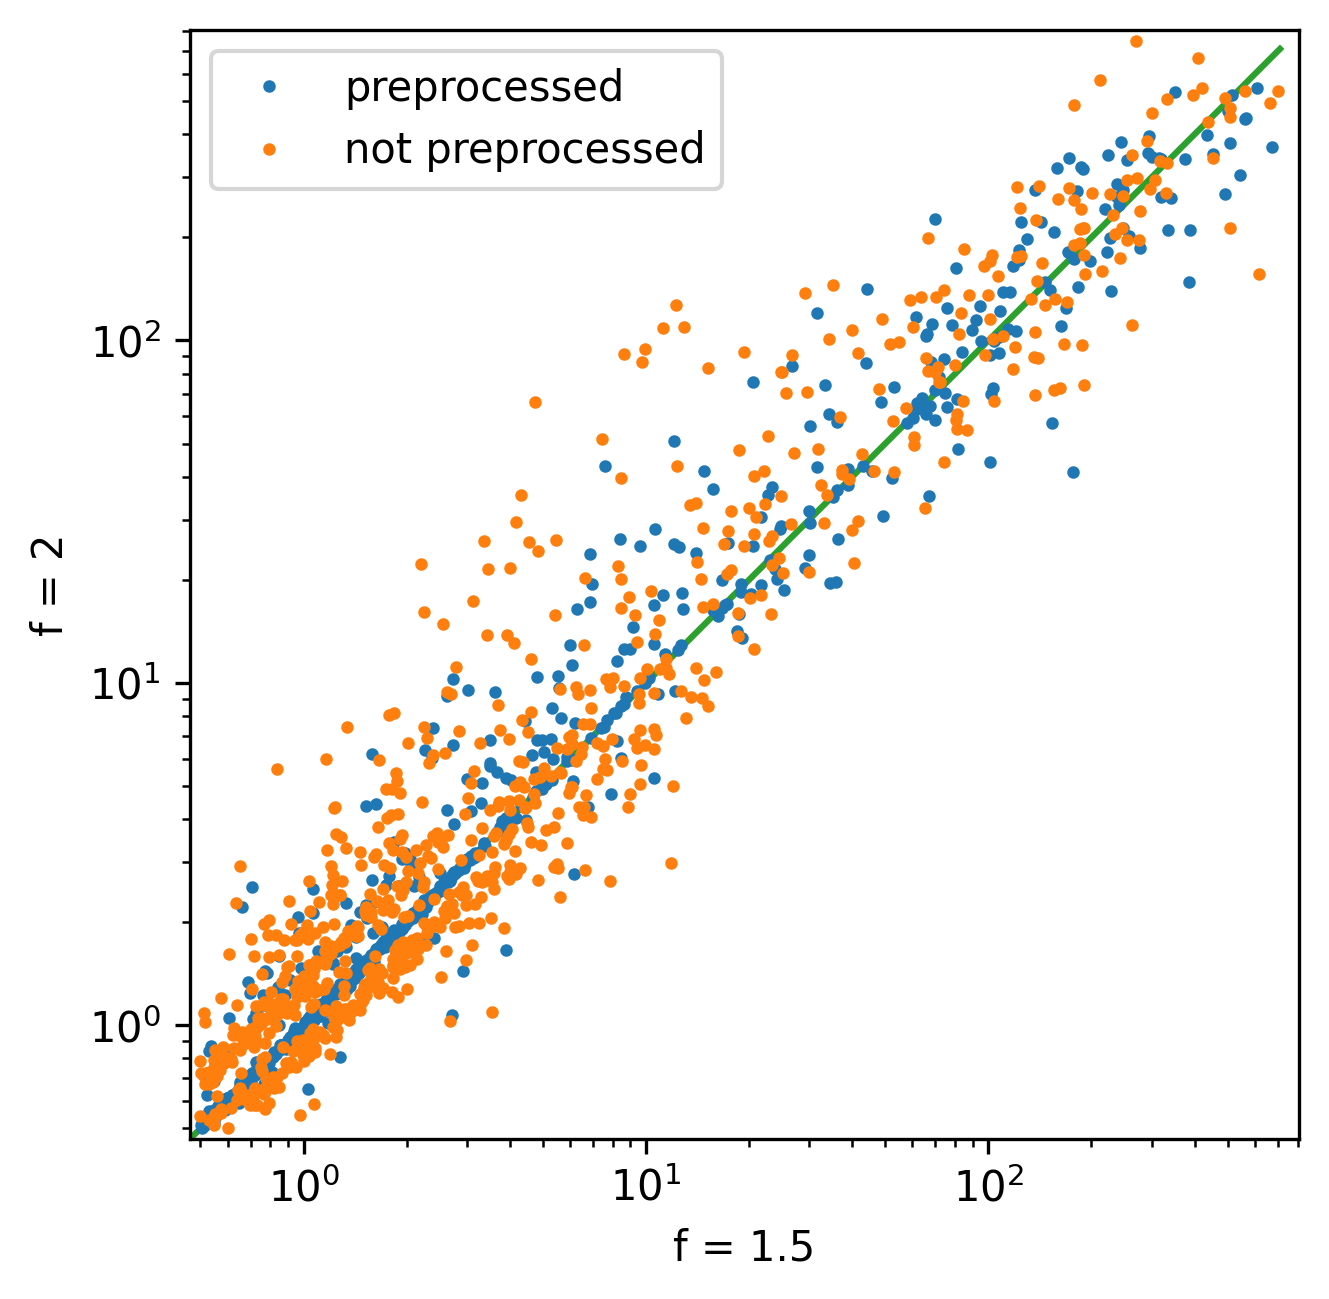
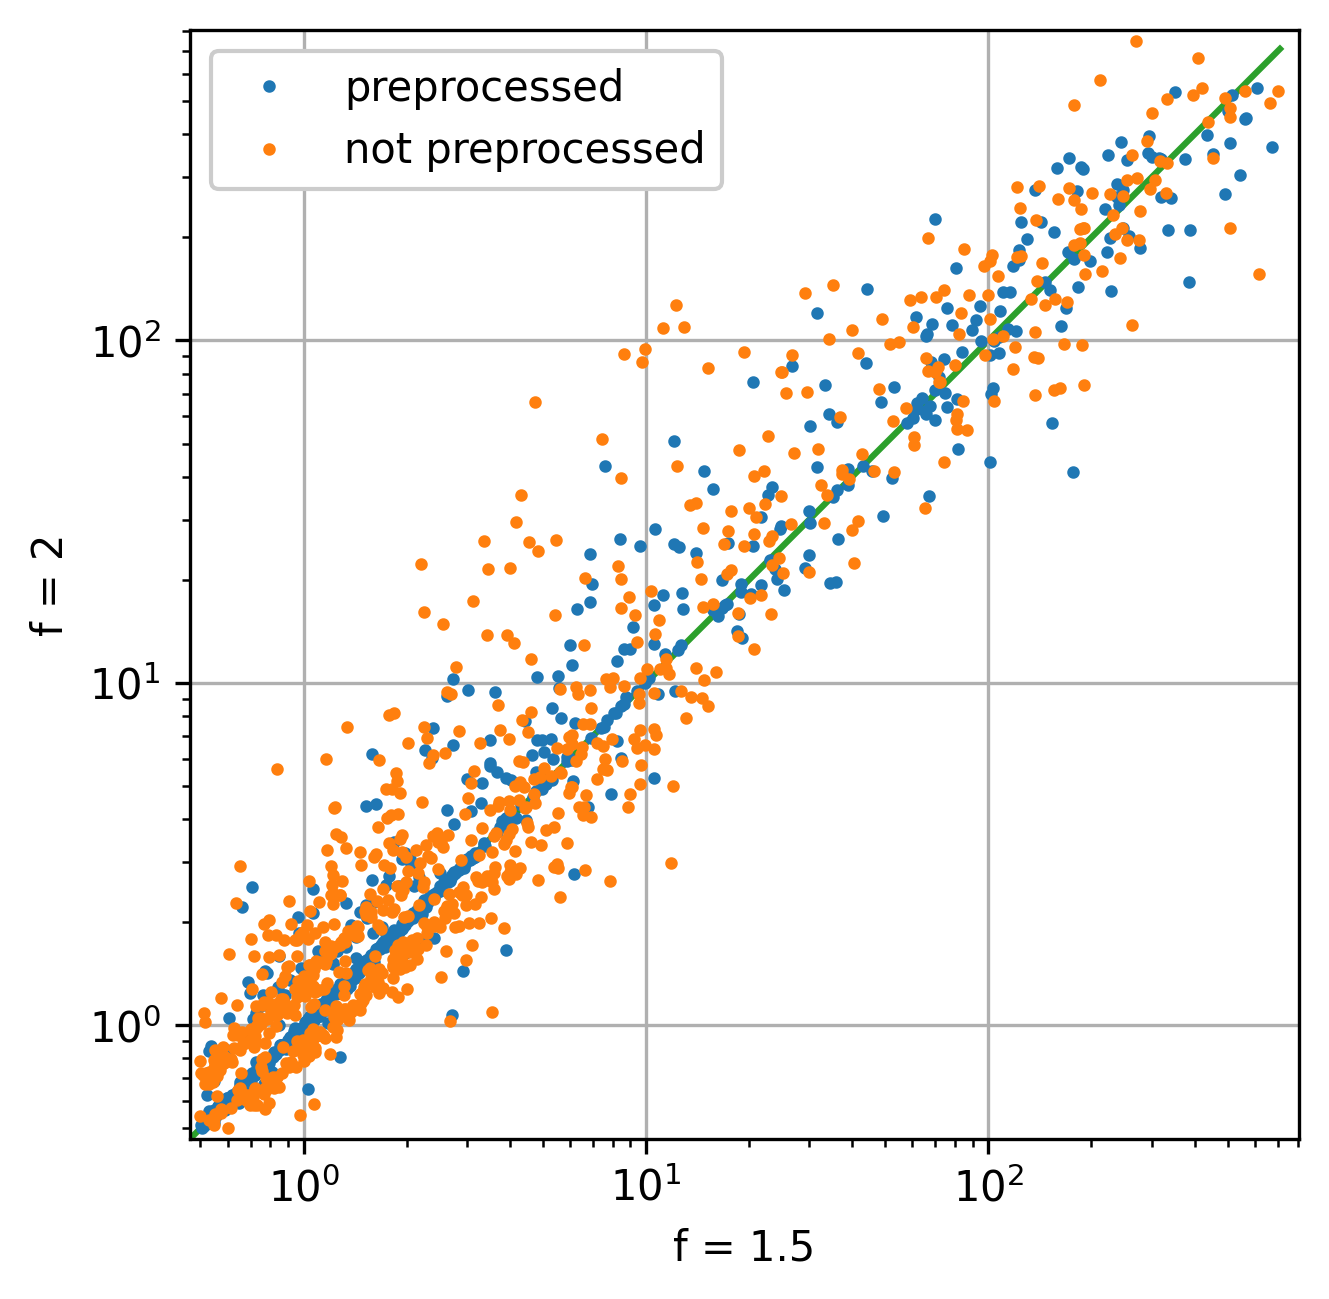
Figures

diff --git a/configuration/evaluate.py b/configuration/evaluate.py
@@ -11,7 +11,9 @@ def plot(xlabel: str, ylabel: str, filename: str):
     plt.xlabel(xlabel)
     plt.ylabel(ylabel)
     plt.axis('square')
-    plt.legend()
+    plt.gca().yaxis.grid(True)
+    plt.gca().xaxis.grid(True)
+    plt.legend(framealpha=1)
     plt.savefig(filename, dpi=300, bbox_inches = 'tight')
     print("Plot saved to file {}.png".format(filename))
     plt.close()
